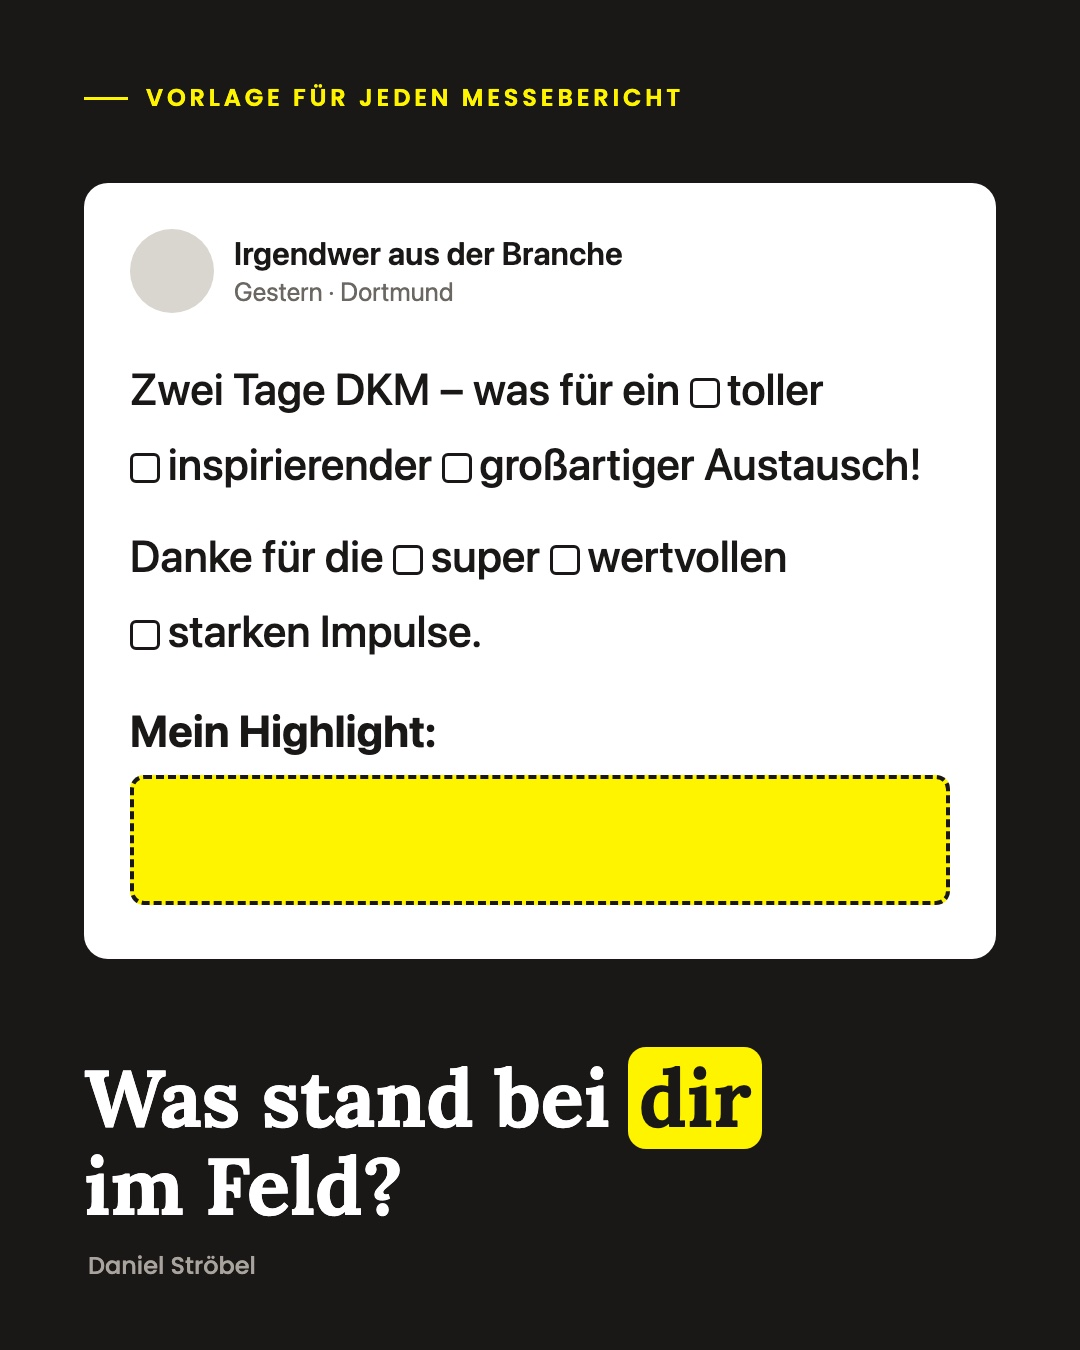
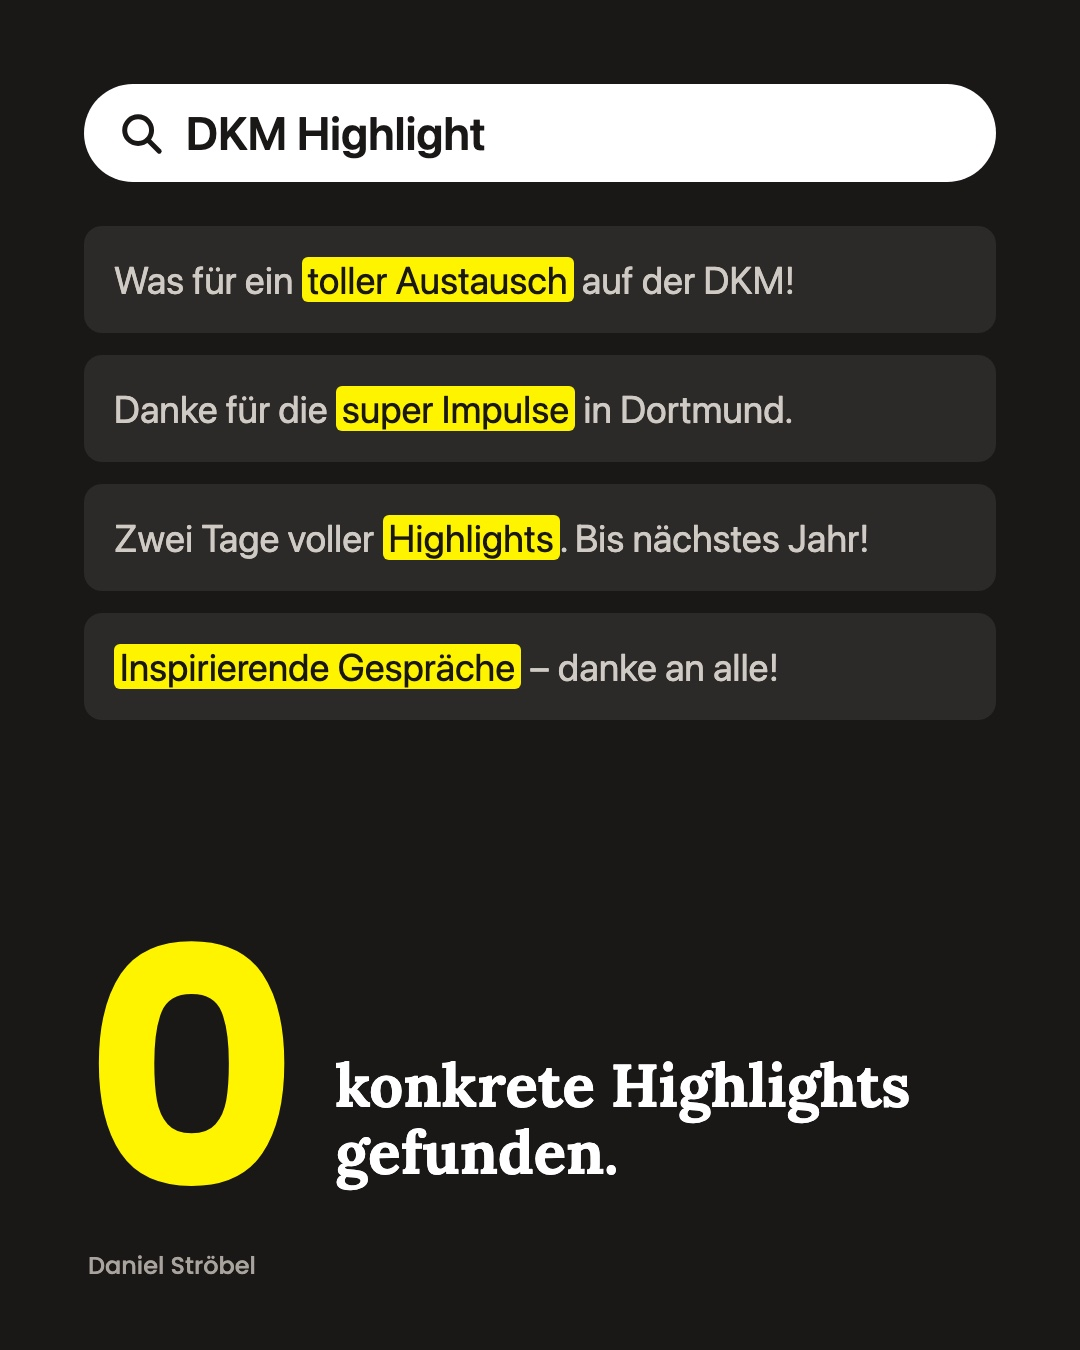
Medienkonzept: DKM-Bild als Suche mit 0 Treffern

diff --git a/werkzeuge/medienkonzept/postings-vorlage.html b/werkzeuge/medienkonzept/postings-vorlage.html
@@ -928,15 +928,16 @@ html, body { width:1080px; background:#fff; }
   <p style="position:absolute;left:84px;bottom:62px;font:500 24px/1 Poppins,sans-serif;color:#6b6762">Daniel Ströbel</p></section>
 
 <section class="p schwarz" id="rp29" style="padding:84px">
-  <p class="k">Vorlage für jeden Messebericht</p>
-  <div style="margin-top:70px;border-radius:24px;background:#fff;padding:46px 46px 54px;color:#1a1817">
-    <div style="display:flex;align-items:center;gap:20px"><i style="width:84px;height:84px;border-radius:50%;background:#d9d5cf"></i>
-      <p><b style="display:block;font:600 32px/1.2 -apple-system,BlinkMacSystemFont,'Segoe UI',Helvetica,Arial,sans-serif">Irgendwer aus der Branche</b><span style="display:block;margin-top:4px;font:400 26px/1.2 -apple-system,BlinkMacSystemFont,'Segoe UI',Helvetica,Arial,sans-serif;color:#6b6762">Gestern · Dortmund</span></p></div>
-    <p style="margin-top:38px;font:500 44px/1.7 -apple-system,BlinkMacSystemFont,'Segoe UI',Helvetica,Arial,sans-serif">Zwei Tage DKM – was für ein <span style="white-space:nowrap"><i style="display:inline-block;width:30px;height:30px;margin:0 8px -3px 0;border:3px solid #1a1817;border-radius:6px"></i>toller</span> <span style="white-space:nowrap"><i style="display:inline-block;width:30px;height:30px;margin:0 8px -3px 0;border:3px solid #1a1817;border-radius:6px"></i>inspirierender</span> <span style="white-space:nowrap"><i style="display:inline-block;width:30px;height:30px;margin:0 8px -3px 0;border:3px solid #1a1817;border-radius:6px"></i>großartiger</span> Austausch!</p>
-    <p style="margin-top:18px;font:500 44px/1.7 -apple-system,BlinkMacSystemFont,'Segoe UI',Helvetica,Arial,sans-serif">Danke für die <span style="white-space:nowrap"><i style="display:inline-block;width:30px;height:30px;margin:0 8px -3px 0;border:3px solid #1a1817;border-radius:6px"></i>super</span> <span style="white-space:nowrap"><i style="display:inline-block;width:30px;height:30px;margin:0 8px -3px 0;border:3px solid #1a1817;border-radius:6px"></i>wertvollen</span> <span style="white-space:nowrap"><i style="display:inline-block;width:30px;height:30px;margin:0 8px -3px 0;border:3px solid #1a1817;border-radius:6px"></i>starken</span> Impulse.</p>
-    <p style="margin-top:34px;font:700 44px/1.3 -apple-system,BlinkMacSystemFont,'Segoe UI',Helvetica,Arial,sans-serif">Mein Highlight:</p>
-    <div style="margin-top:16px;height:130px;border-radius:14px;background:#fff400;border:4px dashed #1a1817"></div>
-  </div>
-  <p style="position:absolute;left:84px;right:84px;bottom:120px;font:700 80px/1.1 Lora,Georgia,serif;color:#fff">Was stand bei <span class="hl">dir</span> im&nbsp;Feld?</p>
+  <div style="display:flex;align-items:center;gap:22px;padding:26px 34px;border-radius:60px;background:#fff">
+    <svg viewBox="0 0 24 24" style="width:46px;height:46px;flex:none" fill="none" stroke="#1a1817" stroke-width="2.6" stroke-linecap="round"><circle cx="10.5" cy="10.5" r="7"/><path d="M16 16l5.5 5.5"/></svg>
+    <span style="font:600 46px/1 -apple-system,BlinkMacSystemFont,'Segoe UI',Helvetica,Arial,sans-serif;color:#1a1817">DKM Highlight</span></div>
+  <div style="margin-top:44px;display:grid;gap:22px">
+    <div style="padding:26px 30px;border-radius:18px;background:#2c2a28"><p style="font:400 38px/1.45 -apple-system,BlinkMacSystemFont,'Segoe UI',Helvetica,Arial,sans-serif;color:#cfcac4">Was für ein <span style="background:#fff400;color:#1a1817;padding:0 6px;border-radius:6px">toller Austausch</span> auf der DKM!</p></div>
+    <div style="padding:26px 30px;border-radius:18px;background:#2c2a28"><p style="font:400 38px/1.45 -apple-system,BlinkMacSystemFont,'Segoe UI',Helvetica,Arial,sans-serif;color:#cfcac4">Danke für die <span style="background:#fff400;color:#1a1817;padding:0 6px;border-radius:6px">super Impulse</span> in Dortmund.</p></div>
+    <div style="padding:26px 30px;border-radius:18px;background:#2c2a28"><p style="font:400 38px/1.45 -apple-system,BlinkMacSystemFont,'Segoe UI',Helvetica,Arial,sans-serif;color:#cfcac4">Zwei Tage voller <span style="background:#fff400;color:#1a1817;padding:0 6px;border-radius:6px">Highlights</span>. Bis nächstes Jahr!</p></div>
+    <div style="padding:26px 30px;border-radius:18px;background:#2c2a28"><p style="font:400 38px/1.45 -apple-system,BlinkMacSystemFont,'Segoe UI',Helvetica,Arial,sans-serif;color:#cfcac4"><span style="background:#fff400;color:#1a1817;padding:0 6px;border-radius:6px">Inspirierende Gespräche</span> – danke an alle!</p></div></div>
+  <div style="position:absolute;left:84px;right:84px;bottom:150px;display:flex;align-items:flex-end;gap:36px">
+    <p style="font:800 330px/.78 Poppins,sans-serif;color:#fff400">0</p>
+    <p style="padding-bottom:14px;font:700 60px/1.12 Lora,Georgia,serif;color:#fff">konkrete Highlights gefunden.</p></div>
   <p class="namezeile">Daniel Ströbel</p></section>
 </body></html>

diff --git a/werkzeuge/medienkonzept/postings_vorlage_bauen.py b/werkzeuge/medienkonzept/postings_vorlage_bauen.py
@@ -971,17 +971,19 @@ def kaestchen(worte):
     return " ".join('<span style="white-space:nowrap"><i style="display:inline-block;width:30px;height:30px;margin:0 8px -3px 0;border:3px solid #1a1817;border-radius:6px"></i>%s</span>' % w for w in worte)
 teile += [
     """<section class="p schwarz" id="rp29" style="padding:84px">
-  <p class="k">Vorlage für jeden Messebericht</p>
-  <div style="margin-top:70px;border-radius:24px;background:#fff;padding:46px 46px 54px;color:#1a1817">
-    <div style="display:flex;align-items:center;gap:20px"><i style="width:84px;height:84px;border-radius:50%%;background:#d9d5cf"></i>
-      <p><b style="display:block;font:600 32px/1.2 %s">Irgendwer aus der Branche</b><span style="display:block;margin-top:4px;font:400 26px/1.2 %s;color:#6b6762">Gestern · Dortmund</span></p></div>
-    <p style="margin-top:38px;font:500 44px/1.7 %s">Zwei Tage DKM – was für ein %s Austausch!</p>
-    <p style="margin-top:18px;font:500 44px/1.7 %s">Danke für die %s Impulse.</p>
-    <p style="margin-top:34px;font:700 44px/1.3 %s">Mein Highlight:</p>
-    <div style="margin-top:16px;height:130px;border-radius:14px;background:#fff400;border:4px dashed #1a1817"></div>
-  </div>
-  <p style="position:absolute;left:84px;right:84px;bottom:120px;font:700 80px/1.1 Lora,Georgia,serif;color:#fff">Was stand bei <span class="hl">dir</span> im&nbsp;Feld?</p>
-  <p class="namezeile">Daniel Ströbel</p></section>""" % (SYS, SYS, SYS, kaestchen(["toller", "inspirierender", "großartiger"]), SYS, kaestchen(["super", "wertvollen", "starken"]), SYS),
+  <div style="display:flex;align-items:center;gap:22px;padding:26px 34px;border-radius:60px;background:#fff">
+    <svg viewBox="0 0 24 24" style="width:46px;height:46px;flex:none" fill="none" stroke="#1a1817" stroke-width="2.6" stroke-linecap="round"><circle cx="10.5" cy="10.5" r="7"/><path d="M16 16l5.5 5.5"/></svg>
+    <span style="font:600 46px/1 %s;color:#1a1817">DKM Highlight</span></div>
+  <div style="margin-top:44px;display:grid;gap:22px">""" % SYS + "".join("""
+    <div style="padding:26px 30px;border-radius:18px;background:#2c2a28"><p style="font:400 38px/1.45 %s;color:#cfcac4">%s</p></div>""" % (SYS, z) for z in [
+        'Was für ein <span style="background:#fff400;color:#1a1817;padding:0 6px;border-radius:6px">toller Austausch</span> auf der DKM!',
+        'Danke für die <span style="background:#fff400;color:#1a1817;padding:0 6px;border-radius:6px">super Impulse</span> in Dortmund.',
+        'Zwei Tage voller <span style="background:#fff400;color:#1a1817;padding:0 6px;border-radius:6px">Highlights</span>. Bis nächstes Jahr!',
+        '<span style="background:#fff400;color:#1a1817;padding:0 6px;border-radius:6px">Inspirierende Gespräche</span> – danke an alle!']) + """</div>
+  <div style="position:absolute;left:84px;right:84px;bottom:150px;display:flex;align-items:flex-end;gap:36px">
+    <p style="font:800 330px/.78 Poppins,sans-serif;color:#fff400">0</p>
+    <p style="padding-bottom:14px;font:700 60px/1.12 Lora,Georgia,serif;color:#fff">konkrete Highlights gefunden.</p></div>
+  <p class="namezeile">Daniel Ströbel</p></section>""",
 ]
 
 html = """<!doctype html>
